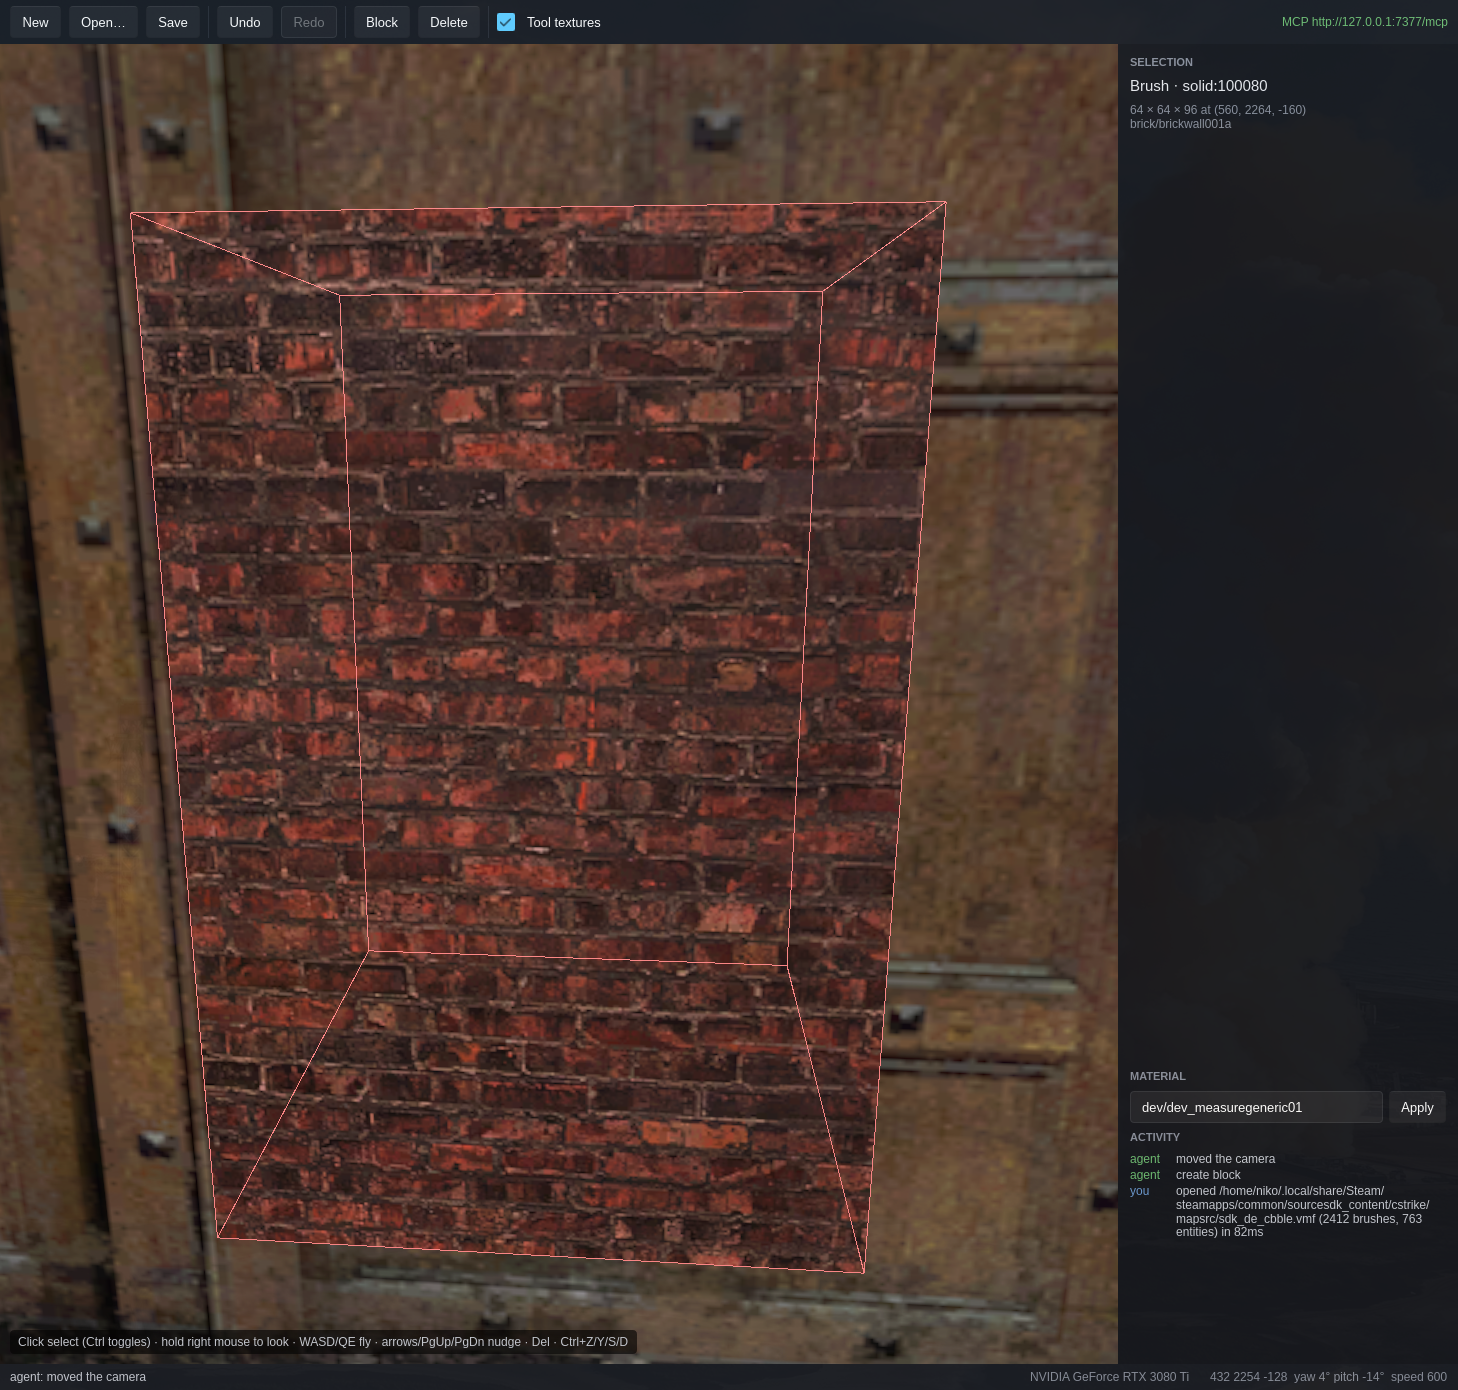
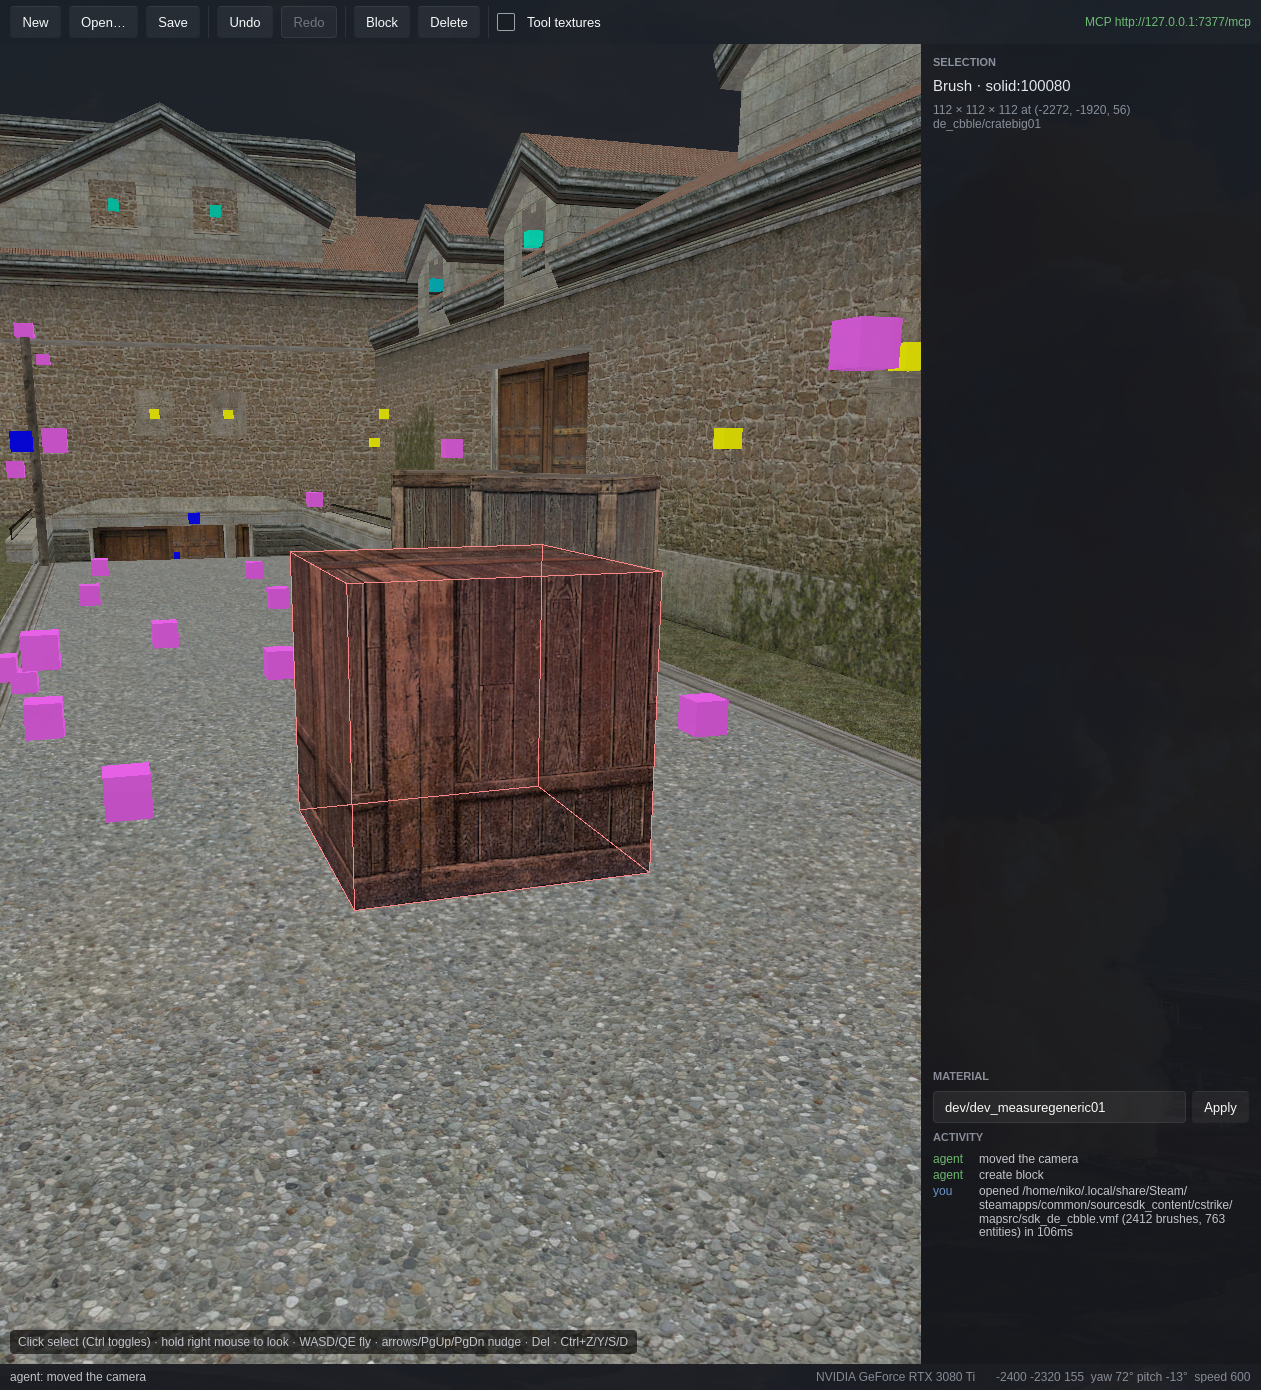
Rename the editor to HammeRR and refresh screenshots - Use HammeRR in the window title, MCP server and README - Place the sample crate in an open courtyard at an angle - Add a set_view tool so agents can hide tool textures

diff --git a/crates/editor/src/mcp.rs b/crates/editor/src/mcp.rs
@@ -35,7 +35,7 @@ const DEFAULT_RENDER_SIZE: (u32, u32) = (1024, 576);
 const MAX_RENDER_SIDE: u32 = 2048;
 
 const INSTRUCTIONS: &str = "\
-Map editor for Counter-Strike: Source (Valve Source engine, Hammer-compatible VMF files). \
+HammeRR, a map editor for Counter-Strike: Source (Valve Source engine, Hammer-compatible VMF files). \
 The user has the same map open in an editor window and sees every change live; all edits \
 are undoable and share the user's undo history.\n\
 Coordinates: Z is up, units are Hammer units (about an inch). A player is 32x32x72 \
@@ -438,6 +438,12 @@ pub struct EntityArgs {
 pub struct StepsArgs {
     /// How many steps (default 1).
     pub steps: Option<usize>,
+}
+
+#[derive(Debug, Deserialize, schemars::JsonSchema)]
+pub struct SetViewArgs {
+    /// Draw clip, trigger, nodraw and skybox brushes.
+    pub tool_textures: Option<bool>,
 }
 
 #[derive(Debug, Deserialize, schemars::JsonSchema)]
@@ -942,6 +948,21 @@ impl EditorServer {
         ok(json!({ "undone": undone }))
     }
 
+    #[tool(
+        description = "Show or hide tool textures (clip, trigger, nodraw, skybox) in the viewport."
+    )]
+    fn set_view(&self, Parameters(args): Parameters<SetViewArgs>) -> ToolResult {
+        run(|| {
+            let mut session = self.session();
+            let mut view = session.view();
+            if let Some(tools) = args.tool_textures {
+                view.tool_textures = tools;
+            }
+            session.set_view(view);
+            Ok(json!({ "tool_textures": view.tool_textures }))
+        })
+    }
+
     #[tool(description = "Redo undone steps.")]
     fn redo(&self, Parameters(args): Parameters<StepsArgs>) -> ToolResult {
         let mut session = self.session();
@@ -1057,6 +1078,10 @@ impl EditorServer {
 impl ServerHandler for EditorServer {
     fn get_info(&self) -> ServerConfig {
         ServerConfig::new(ServerCapabilities::builder().enable_tools().build())
+            .with_server_info(rmcp::model::Implementation::new(
+                "hammerr",
+                env!("CARGO_PKG_VERSION"),
+            ))
             .with_instructions(INSTRUCTIONS)
     }
 }

diff --git a/README.md b/README.md
@@ -1,4 +1,4 @@
-# hammerpp
+# HammeRR
 
 A Linux-native map editor for Counter-Strike: Source, written in Rust as a
 modern replacement for Hammer++. It reads and writes Hammer's VMF format,
@@ -7,8 +7,8 @@ feature to AI agents over MCP.
 
 ![The editor with sdk_de_cbble open](docs/images/editor.png)
 
-*sdk_de_cbble in the editor. The selected block was placed by an agent over
-MCP; the activity panel shows who did what.*
+*sdk_de_cbble in HammeRR. The crate in the courtyard was placed by an agent
+over MCP; the activity panel shows who did what.*
 
 ## Features
 
@@ -28,7 +28,7 @@ The GUI serves MCP at `http://127.0.0.1:7377/mcp`; `--headless` serves it
 over stdio without a window.
 
 ```json
-{ "mcpServers": { "hammer": { "url": "http://127.0.0.1:7377/mcp" } } }
+{ "mcpServers": { "hammerr": { "url": "http://127.0.0.1:7377/mcp" } } }
 ```
 
 Tools cover files, queries (`find_objects`, `get_objects`), selection,
